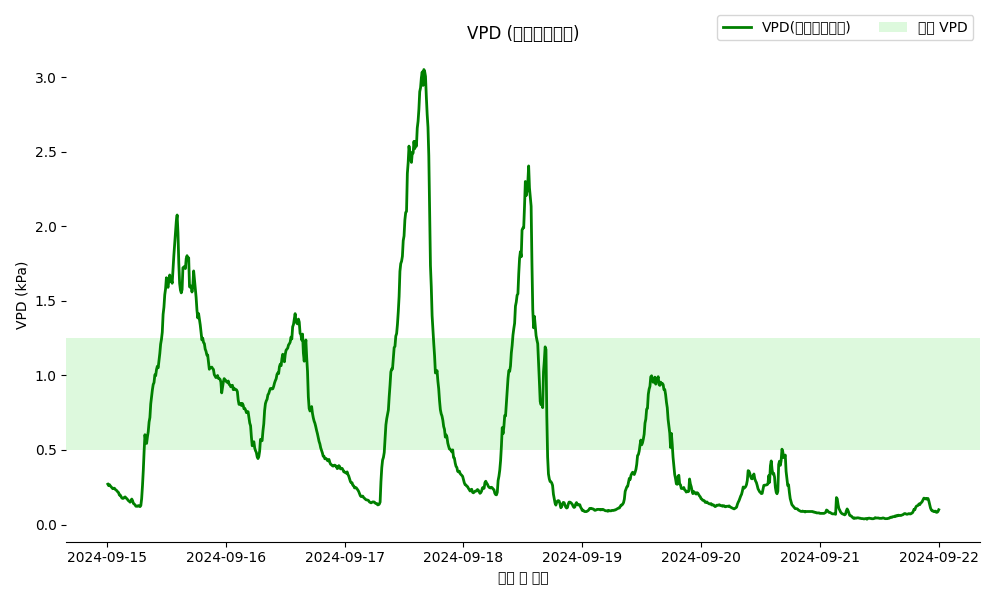
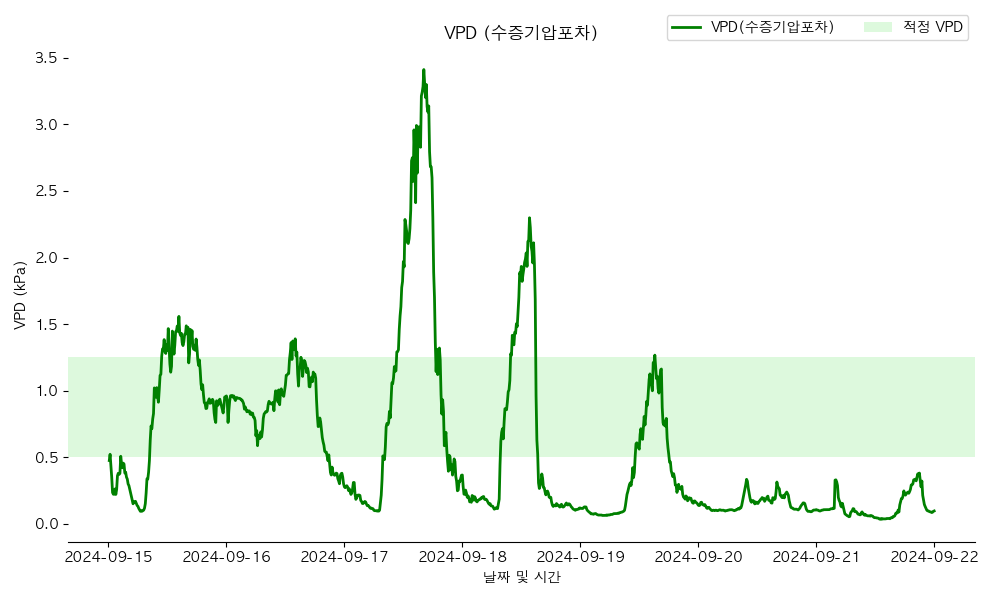
.

diff --git a/hw03/weather_visual.py b/hw03/weather_visual.py
@@ -6,6 +6,8 @@ import pandas as pd
 from matplotlib import pyplot as plt
 from matplotlib.patches import Patch
 import numpy as np
+from matplotlib import rc  ### 이 줄과
+
 
 # 요청 인자
 page_no = "1"
@@ -130,8 +132,9 @@ def draw_graph():
     # 날짜와 시간을 결합하여 x축 데이터 생성
     print(df.head(144))
 
-    plt.rcParams['font.family'] = 'NanumGothic'
-    plt.rcParams['axes.unicode_minus'] = False
+    rc('font', family='AppleGothic')  ## 이 두 줄을
+    plt.rcParams['axes.unicode_minus'] = False  ## 추가해줍니다.
+
 
     df['datetime'] = pd.to_datetime(df['date'] + ' ' + df['time'].str[:2] + ':' + df['time'].str[3:])
 
@@ -173,8 +176,8 @@ def draw_vpd_graph():
     # 날짜와 시간을 결합하여 x축 데이터 생성
     print(df.head(144))
 
-    plt.rcParams['font.family'] = 'NanumGothic'
-    plt.rcParams['axes.unicode_minus'] = False
+    rc('font', family='AppleGothic')  ## 이 두 줄을
+    plt.rcParams['axes.unicode_minus'] = False  ## 추가해줍니다.
 
     df['datetime'] = pd.to_datetime(df['date'] + ' ' + df['time'].str[:2] + ':' + df['time'].str[3:])
 
@@ -217,7 +220,7 @@ def draw_vpd_graph():
 
 
 # api_get()
-draw_graph()
+# draw_graph()
 # get_address('전라북도 익산시')
 # get_button('경상북도 구미시')
-# draw_vpd_graph()
+draw_vpd_graph()

diff --git a/hw03/main_fastapi.py b/hw03/main_fastapi.py
@@ -39,13 +39,7 @@ async def weather(request: Request):
 
     except Exception as e:
         return JSONResponse({"error": str(e)}, status_code=400)
-@app.post('/process')
-async def process_input(request: Request):
-    data = await request.json()
-    input_value = data['value']
-    result = get_address(input_value)
 
-    return JSONResponse(content={'result': result})
 @app.post("/button")
 async def make_button(request: Request):
     data = await request.json()
@@ -55,4 +49,4 @@ async def make_button(request: Request):
     return JSONResponse(content={"result": result})
 
 if __name__ == "__main__":
-    uvicorn.run(app, host="127.0.0.1", port=8080)
+    uvicorn.run(app, host="0.0.0.0", port=8080)
